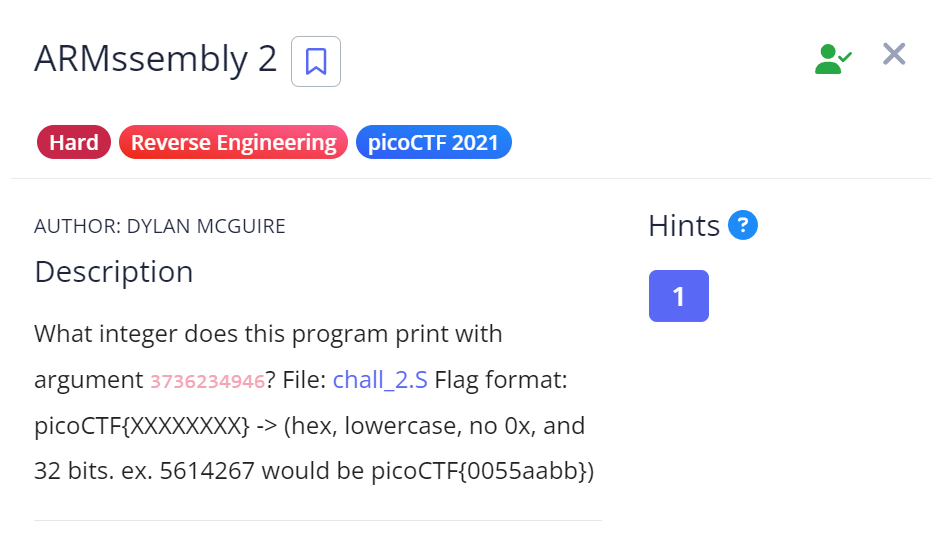
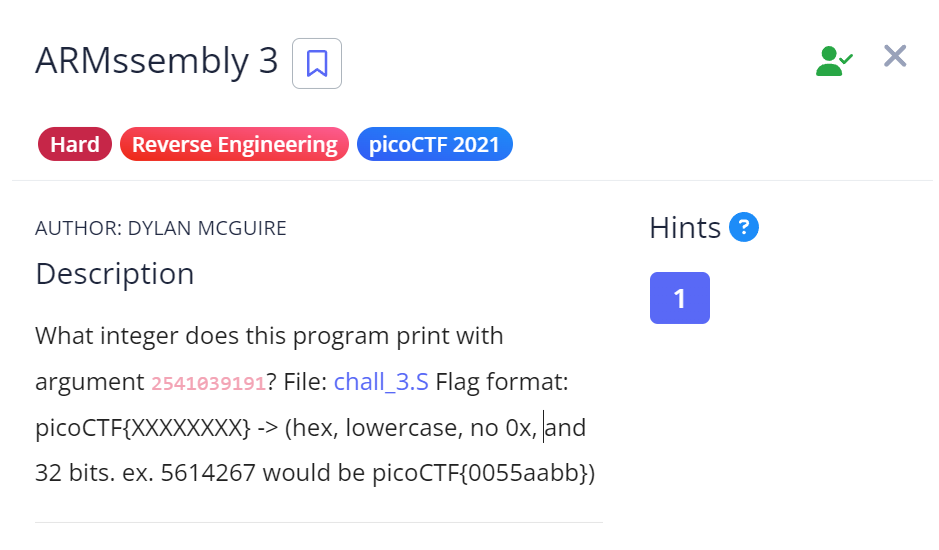
Commit

diff --git a/PicoCTF/ReverseEngineering/ARMssembly3.md b/PicoCTF/ReverseEngineering/ARMssembly3.md
@@ -1,0 +1,103 @@
+# ARMssembly 3
+
+## Challenge Details
+
+![alt text](./Images/ARMssembly3.png)
+
+## Approach
+
+**Assembly Code** - [ARMssembly3](./Resources&SourceCodes/ARMssembly3.asm)
+
+1. **Main Function**
+
+    Same as the previous levels, we're again calling func1 and passing 1 argument to it.
+
+2. **Func1**
+
+        stp     x29, x30, [sp, -48]!           // Allocating 48 bytes of space in the stack same way as we have done in the previous levels
+
+        add     x29, sp, 0                     
+
+        str     w0, [x29, 28]                   // Storing our argument in address[x29+28]
+
+        str     wzr, [x29, 44]                 // Storing zero in address[x29+44]
+
+        b       .L2                            // Branching to label L2
+
+3. **.L2**
+
+        .L2:                                  
+
+        ldr     w0, [x29, 28]                  // Loading value at address[x29+28] in w0
+
+        cmp     w0, 0                          // Comparing the value at w0 with 0
+
+        bne     .L4                            // If they are not equal, we branch to label L4
+
+        ldr     w0, [x29, 44]
+
+        ldp     x29, x30, [sp], 48
+
+        ret
+
+4. **.L4**
+
+        .L4:
+
+        ldr     w0, [x29, 28]                  // Loading the value at address[x29+28] into w0          
+
+        and     w0, w0, 1                      // Doing AND operation on w0 with 1
+
+        cmp     w0, 0                          // Basically here we're checking if w0 is odd
+
+        beq     .L3                            // If it is even, we're branching it to .L3
+
+        ldr     w0, [x29, 44]                  // If value is odd, we're loading the value at x0 into address[x29+44]
+
+        bl      func2                          // Branching to func2
+
+        str     w0, [x29, 44]
+
+5. **.L3*
+
+        ldr     w0, [x29, 28]                   // Load the value at address[x29+28] into w0
+
+        lsr     w0, w0, 1                       // Right shift one time
+
+        str     w0, [x29, 28]                   // Store the value into address[x29+28]
+
+
+6. **Func2**
+
+        func2:
+        sub     sp, sp, #16                     // Allocating 16 bytes of space in the stack
+
+        str     w0, [sp, 12]                    // Storing the value at w0 at address[sp+12]
+
+        ldr     w0, [sp, 12]                    // Loading the value at address[sp+12] into w0
+
+        add     w0, w0, 3                       // Adding 3 to w0 and storing the result in w0 itself
+
+        add     sp, sp, 16                      // Deallocating the previously allocated space on stack
+
+        ret
+
+
+
+So basically what we're doing is, we're checking whether the value at address[x29+28] which initially is our argument is even or odd.
+
+If it is even (i.e last digit in binary = 0), then we're doing a logical right shift.
+If it is odd, then we add 3 to value at address[x29+44] which was initially set to 0 and then right shift the value at address[x29+28].
+
+So, in the end we need to check how many 1's are there in the binary and multiply 3 to get the required decimal value.
+
+Argument - 2541039191
+Argument in binary - 10010111011101010010111001010111
+No of one's = 19
+Required Decimal value - 57
+Required hexadecimal value - 00000039
+
+## Flag
+
+`picoCTF{00000039}`
+

diff --git a/PicoCTF/ReverseEngineering/ARMssembly2.md b/PicoCTF/ReverseEngineering/ARMssembly2.md
@@ -2,7 +2,7 @@
 
 ## Challenge Description
 
-![alt text](./Images/ARMssembly3.png)
+![alt text](./Images/ARMssembly2.png)
 
 ## Approach
 
